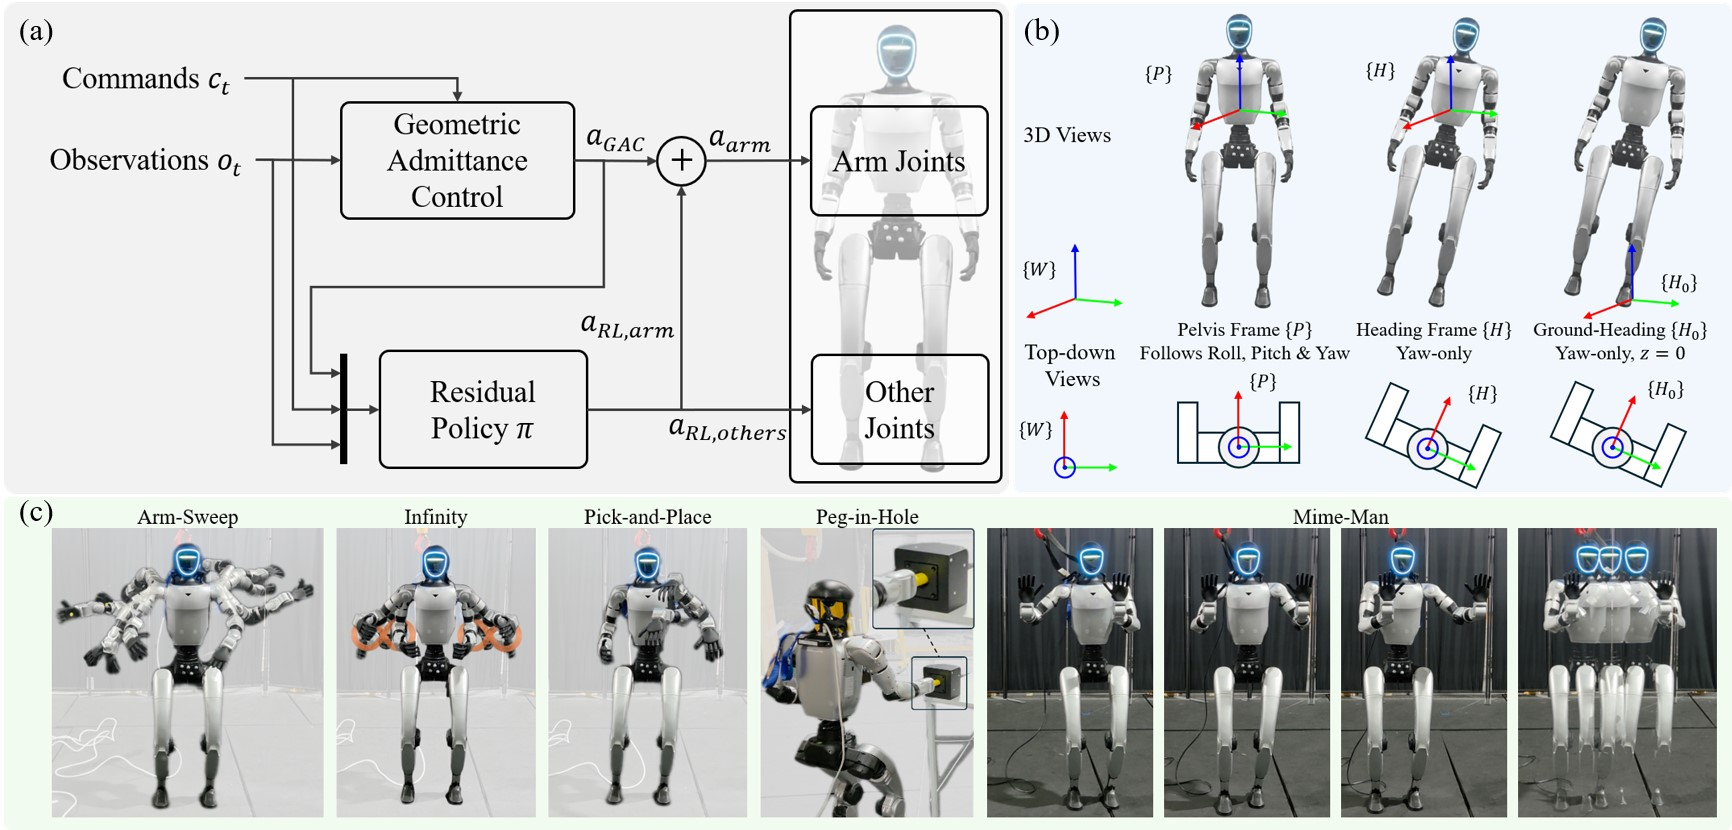
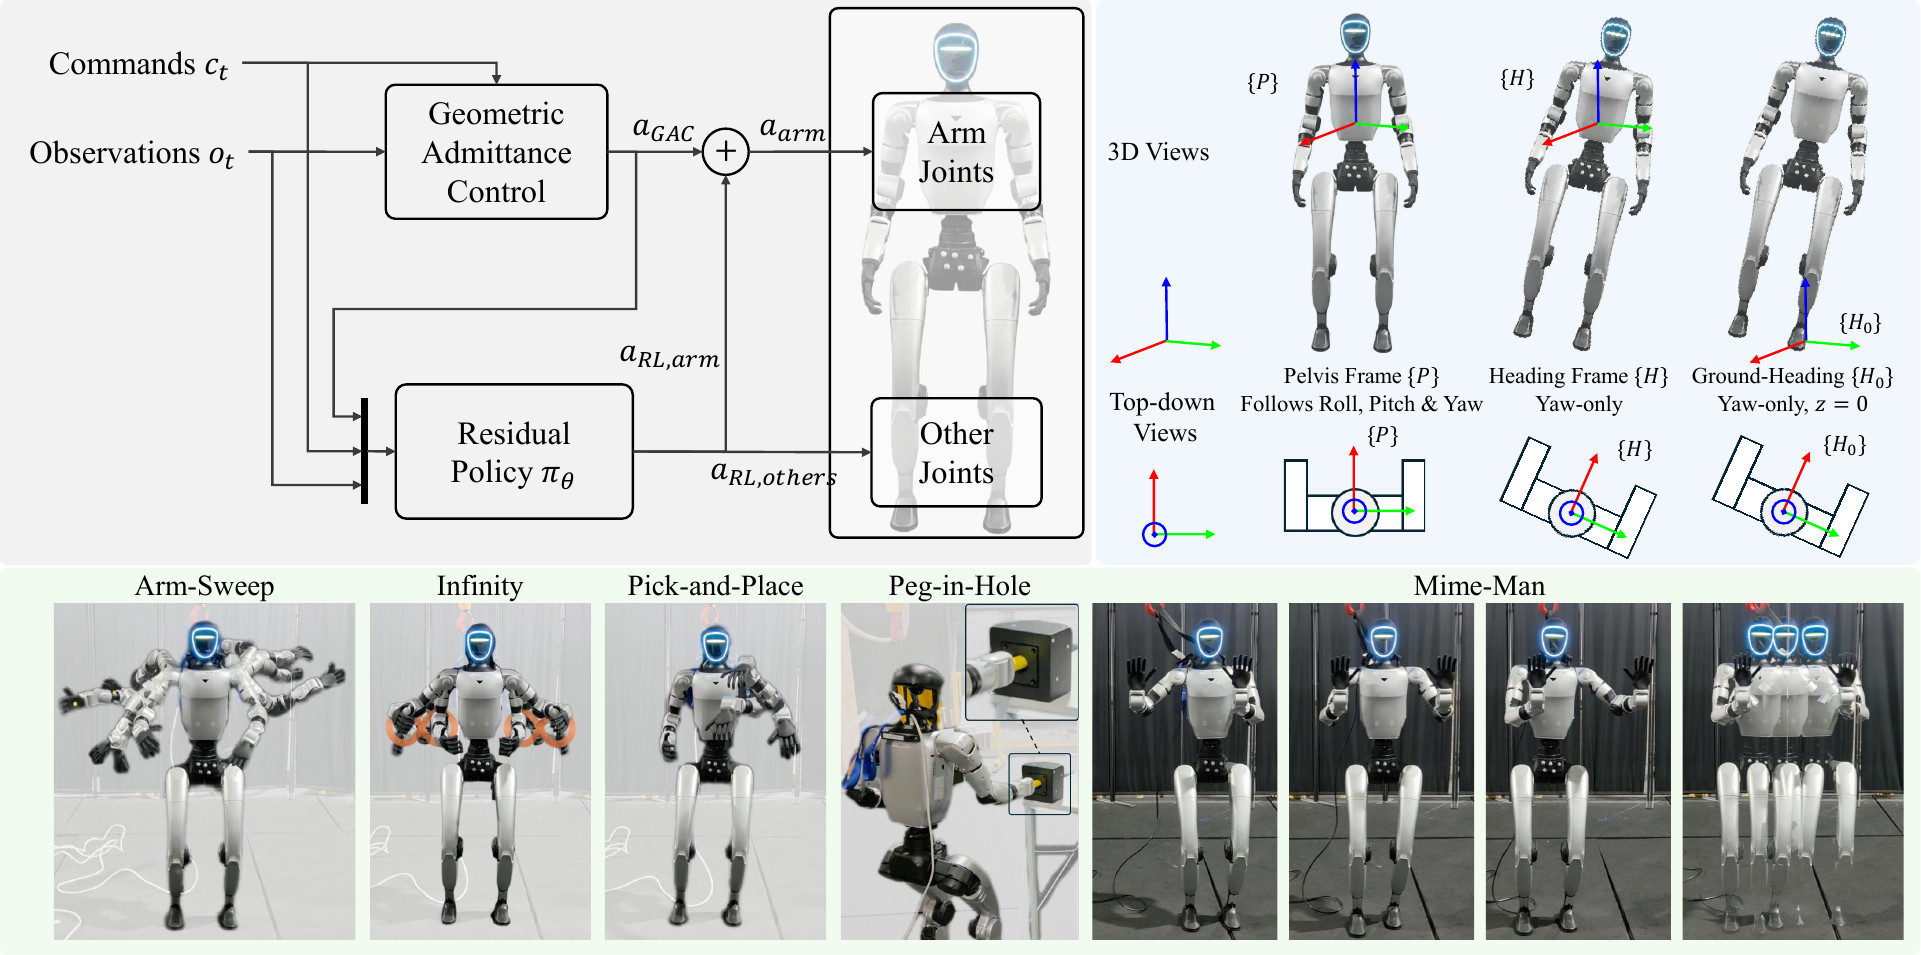
Update to the final paper; re-render figures from the vector PDFs
New title and abstract; Fig. 1 caption; Table III reordered to match the
paper and SONIC-Teleop's pick-and-place position corrected to 17.3 +/- 9.9
(the site still carried 23.9 +/- 13.9 from the first draft); Section C
renamed to End-effector Stabilization via Frame Selection; "Setpoints"
trajectory renamed "Setpoint".

Figures re-rendered from figures_fullres/*.pdf: the main figure at 1921px
(326 KB JPEG) and both plots at 1602px (51 and 54 KB, smaller than the
PNGs they replace).

diff --git a/index.html b/index.html
@@ -6,7 +6,7 @@
 
   <!-- ANONYMITY: no author in <title>, no <meta name="author">, no og:* tags
        naming a lab or person, no analytics snippet. -->
-  <title>Precise SE(3) End-Effector Tracking for Humanoid Loco-Manipulation</title>
+  <title>Precise SE(3) End-Effector Tracking in Whole-Body Humanoid Control</title>
   <meta name="description" content="Anonymous project page for a double-blind submission." />
   <meta name="robots" content="noindex" />
 
@@ -18,7 +18,7 @@
 <div class="container">
 
   <!-- ---------- Header ---------- -->
-  <h1 class="page-title">Precise \(SE(3)\) End-Effector Tracking<br>for Humanoid Loco-Manipulation</h1>
+  <h1 class="page-title">Precise \(SE(3)\) End-Effector Tracking<br>in Whole-Body Humanoid Control</h1>
 
   <div class="anon">
     <b>Anonymous submission &mdash; under double-blind review.</b><br>
@@ -72,16 +72,17 @@
       learning. GAC provides structured \(SE(3)\) task-space feedback and generates nominal arm
       joint-position targets, while residual RL compensates for unmodeled dynamics and coordinates
       locomotion and balance in the shared joint-position action space. The left-invariant
-      geometric formulation allows the same GAC law to be utilized across manipulation reference
+      geometric formulation allows the same GAC law to be used across manipulation reference
       frames. This enables the use of a ground-attached heading frame that preserves planar
       locomotion while removing pelvis roll, pitch, and heave from the manipulation reference,
       thereby reducing reference-induced end-effector motion during locomotion. ResGAC is
-      validated on a real Unitree G1 humanoid. Across four end-effector tracking benchmarks,
-      ResGAC consistently outperforms representative baselines, including SONIC, in translational
-      and rotational errors. Real-world experiments further demonstrate reduced transmission of
-      locomotion-induced pelvis disturbances through the proposed ground-attached heading frame,
-      90% success in a standing peg-in-hole task compared with 50% for SONIC, and accurate
-      world-frame \(SE(3)\) end-effector pose tracking during body motion.
+      validated on a real Unitree G1 humanoid. Across four standing end-effector tracking
+      benchmarks, ResGAC consistently outperforms representative baselines, including SONIC,
+      achieving lower translational and rotational errors. Real-world experiments further
+      demonstrate reduced propagation of pelvis motion to the desired end-effector pose using the
+      proposed ground-attached heading frame. ResGAC achieves 90% success in a standing
+      peg-in-hole task compared with 50% for SONIC, and accurate world-frame \(SE(3)\)
+      end-effector pose tracking during lower-body motion.
     </p>
   </div>
 
@@ -93,7 +94,7 @@
       <img src="assets/imgs/Main_figure_v3.jpg" alt="ResGAC overview: GAC plus residual policy, reference frames, and evaluation tasks" />
     </div>
     <p class="small" style="margin-top:10px;">
-      Figure 1: (a) ResGAC consists of a geometric admittance controller (GAC) that provides the
+      Figure 1: Precise \(SE(3)\) end-effector tracking in whole-body humanoid control. (a) ResGAC consists of a geometric admittance controller (GAC) that provides the
       nominal end-effector command and a residual RL policy that learns arm corrections
       while controlling the remaining whole-body joints. (b) The pelvis \(\{P\}\), heading
       \(\{H\}\), and ground-attached heading \(\{H_0\}\) frames: \(\{H\}\) removes pelvis roll and
@@ -256,7 +257,7 @@
 <div class="wide-section">
   <div class="tabs" role="tablist" aria-label="Benchmark trajectory">
     <button type="button" class="tab" role="tab" id="tab-smooth" aria-controls="panel-smooth" aria-selected="true">Smooth arm-sweep</button>
-    <button type="button" class="tab" role="tab" id="tab-setpoints" aria-controls="panel-setpoints" aria-selected="false">Setpoints arm-sweep</button>
+    <button type="button" class="tab" role="tab" id="tab-setpoints" aria-controls="panel-setpoints" aria-selected="false">Setpoint arm-sweep</button>
     <button type="button" class="tab" role="tab" id="tab-infinity" aria-controls="panel-infinity" aria-selected="false">Infinity</button>
     <button type="button" class="tab" role="tab" id="tab-pickplace" aria-controls="panel-pickplace" aria-selected="false">Pick-and-place</button>
   </div>
@@ -281,7 +282,7 @@
       <img src="assets/imgs/nonsmooth_eef_error_convergence_layered.png" alt="End-effector position and orientation error convergence after setpoint changes for ResGAC, E2E-RL, and SONIC-Teleop-v1.1" />
     </div>
     <p class="small" style="max-width:640px; margin:10px auto 0;">
-      End-effector error convergence for the setpoints arm-sweep. The 25 setpoint intervals are
+      End-effector error convergence for the setpoint arm-sweep. The 25 setpoint intervals are
       aligned at each command transition (\(t = 0\)) and aggregated; solid curves are the mean
       position and orientation error, shaded regions one standard deviation.
     </p>
@@ -311,7 +312,7 @@
   <div class="section" style="border-top:none; margin-top:8px; padding-top:0;">
     <h3 style="margin-top:26px;">Quantitative results</h3>
     <p class="small">
-      Mean &plusmn; standard deviation of the per-sample error magnitudes, aggregated over temporal samples and both arms. For the setpoints
+      Mean &plusmn; standard deviation of the per-sample error magnitudes, aggregated over temporal samples and both arms. For the setpoint
       trajectory, only steady-state samples after each command transition are included. Lower is
       better; <b>best</b> in bold, <u>second-best</u> underlined. All controllers are evaluated in
       the pelvis frame \(\{P\}\) except SONIC-Teleop-v1.1, whose released policy uses a
@@ -322,7 +323,7 @@
         <thead>
           <tr>
             <th rowspan="2">Controller</th>
-            <th colspan="2">Smooth</th><th colspan="2">Setpoints</th>
+            <th colspan="2">Smooth</th><th colspan="2">Setpoint</th>
             <th colspan="2">Infinity</th><th colspan="2">Pick-and-Place</th>
           </tr>
           <tr>
@@ -336,6 +337,11 @@
             <td class="num">33.9 &plusmn; 20.9</td><td class="num">4.87 &plusmn; 3.24</td>
             <td class="num">33.6 &plusmn; 14.9</td><td class="num">8.36 &plusmn; 4.42</td>
             <td class="num">35.5 &plusmn; 31.6</td><td class="num"><u>6.02 &plusmn; 1.56</u></td></tr>
+          <tr><td>GAC+Decoupled-RL</td>
+            <td class="num">98.5 &plusmn; 32.5</td><td class="num">14.80 &plusmn; 6.16</td>
+            <td class="num">94.5 &plusmn; 24.9</td><td class="num">13.31 &plusmn; 3.78</td>
+            <td class="num">50.6 &plusmn; 12.6</td><td class="num">9.47 &plusmn; 1.87</td>
+            <td class="num">74.1 &plusmn; 37.5</td><td class="num">12.25 &plusmn; 3.68</td></tr>
           <tr><td>SONIC-IK-WBT</td>
             <td class="num">41.7 &plusmn; 27.6</td><td class="num">18.86 &plusmn; 13.37</td>
             <td class="num">25.1 &plusmn; 17.6</td><td class="num">15.42 &plusmn; 11.01</td>
@@ -345,17 +351,12 @@
             <td class="num">39.6 &plusmn; 40.3</td><td class="num">23.23 &plusmn; 20.52</td>
             <td class="num">25.3 &plusmn; 19.6</td><td class="num">18.32 &plusmn; 11.56</td>
             <td class="num">18.4 &plusmn; 9.0</td><td class="num">11.00 &plusmn; 5.40</td>
-            <td class="num">23.9 &plusmn; 13.9</td><td class="num">24.63 &plusmn; 9.09</td></tr>
+            <td class="num">17.3 &plusmn; 9.9</td><td class="num">24.63 &plusmn; 9.09</td></tr>
           <tr><td>SONIC-Teleop-v1.1</td>
             <td class="num"><u>34.3 &plusmn; 29.0</u></td><td class="num">17.60 &plusmn; 26.86</td>
             <td class="num"><u>19.7 &plusmn; 9.6</u></td><td class="num"><u>8.65 &plusmn; 8.63</u></td>
             <td class="num"><u>15.3 &plusmn; 6.4</u></td><td class="num"><u>6.44 &plusmn; 2.77</u></td>
             <td class="num"><u>14.5 &plusmn; 3.9</u></td><td class="num">6.23 &plusmn; 3.17</td></tr>
-          <tr><td>GAC+Decoupled-RL</td>
-            <td class="num">98.5 &plusmn; 32.5</td><td class="num">14.80 &plusmn; 6.16</td>
-            <td class="num">94.5 &plusmn; 24.9</td><td class="num">13.31 &plusmn; 3.78</td>
-            <td class="num">50.6 &plusmn; 12.6</td><td class="num">9.47 &plusmn; 1.87</td>
-            <td class="num">74.1 &plusmn; 37.5</td><td class="num">12.25 &plusmn; 3.68</td></tr>
           <tr><td><b>ResGAC (ours)</b></td>
             <td class="num"><b>22.4 &plusmn; 25.0</b></td><td class="num"><b>5.29 &plusmn; 7.00</b></td>
             <td class="num"><b>6.5 &plusmn; 3.7</b></td><td class="num"><b>1.37 &plusmn; 0.76</b></td>
@@ -367,9 +368,9 @@
 
     <p>
       ResGAC has the lowest position and orientation error on all four trajectories. On the
-      setpoints and pick-and-place trajectories it reaches sub-centimeter position error
+      setpoint and pick-and-place trajectories it reaches sub-centimeter position error
       (6.5&nbsp;mm and 6.6&nbsp;mm) and below 2&deg; orientation error (1.37&deg; and 1.67&deg;),
-      54&ndash;67% and 72% lower than the best baseline, respectively.
+      54&ndash;67% lower position error and about 72% lower orientation error than the best baseline.
     </p>
 
     <details class="detail">
@@ -393,7 +394,7 @@
 
   <!-- ---------- Disturbance rejection ---------- -->
   <div class="section">
-    <h2>Frame-based Disturbance Attenuation</h2>
+    <h2>End-effector Stabilization via Frame Selection</h2>
     <p>
       A static arm-holding task during forward and backward walking, comparing two ResGAC policies
       that differ only in their manipulation reference frame. The <b>transmission ratio</b>
